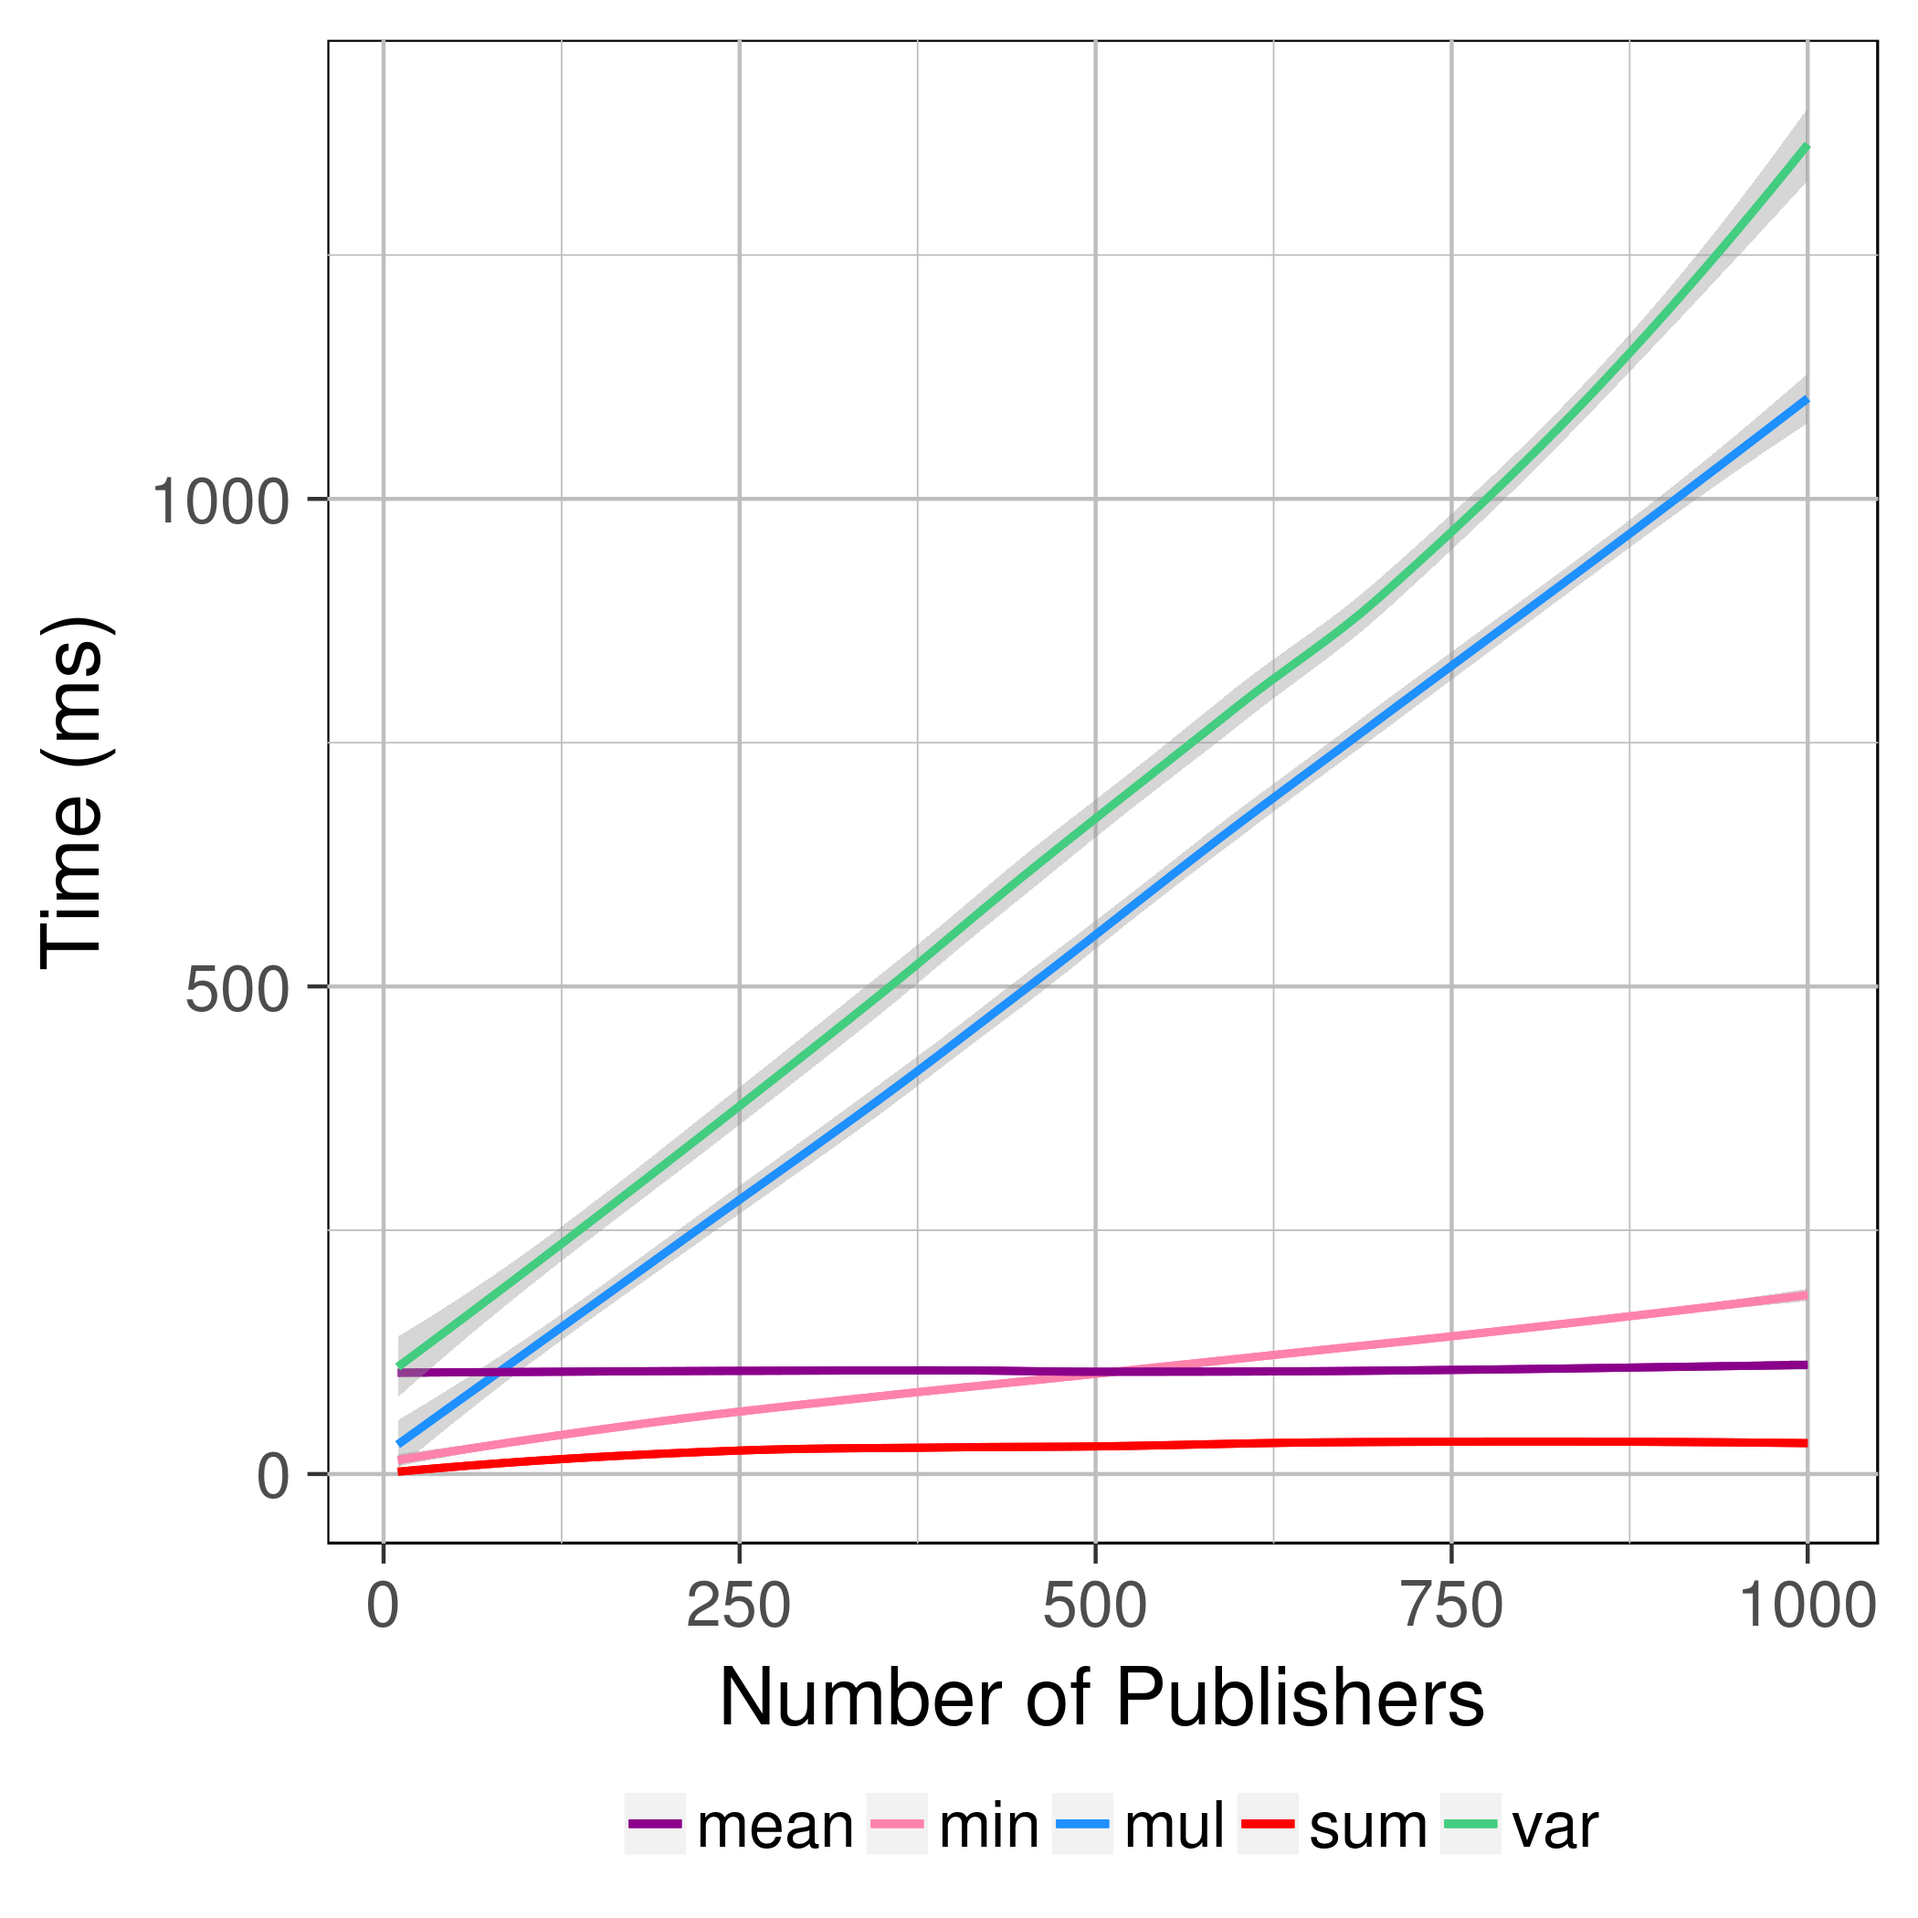
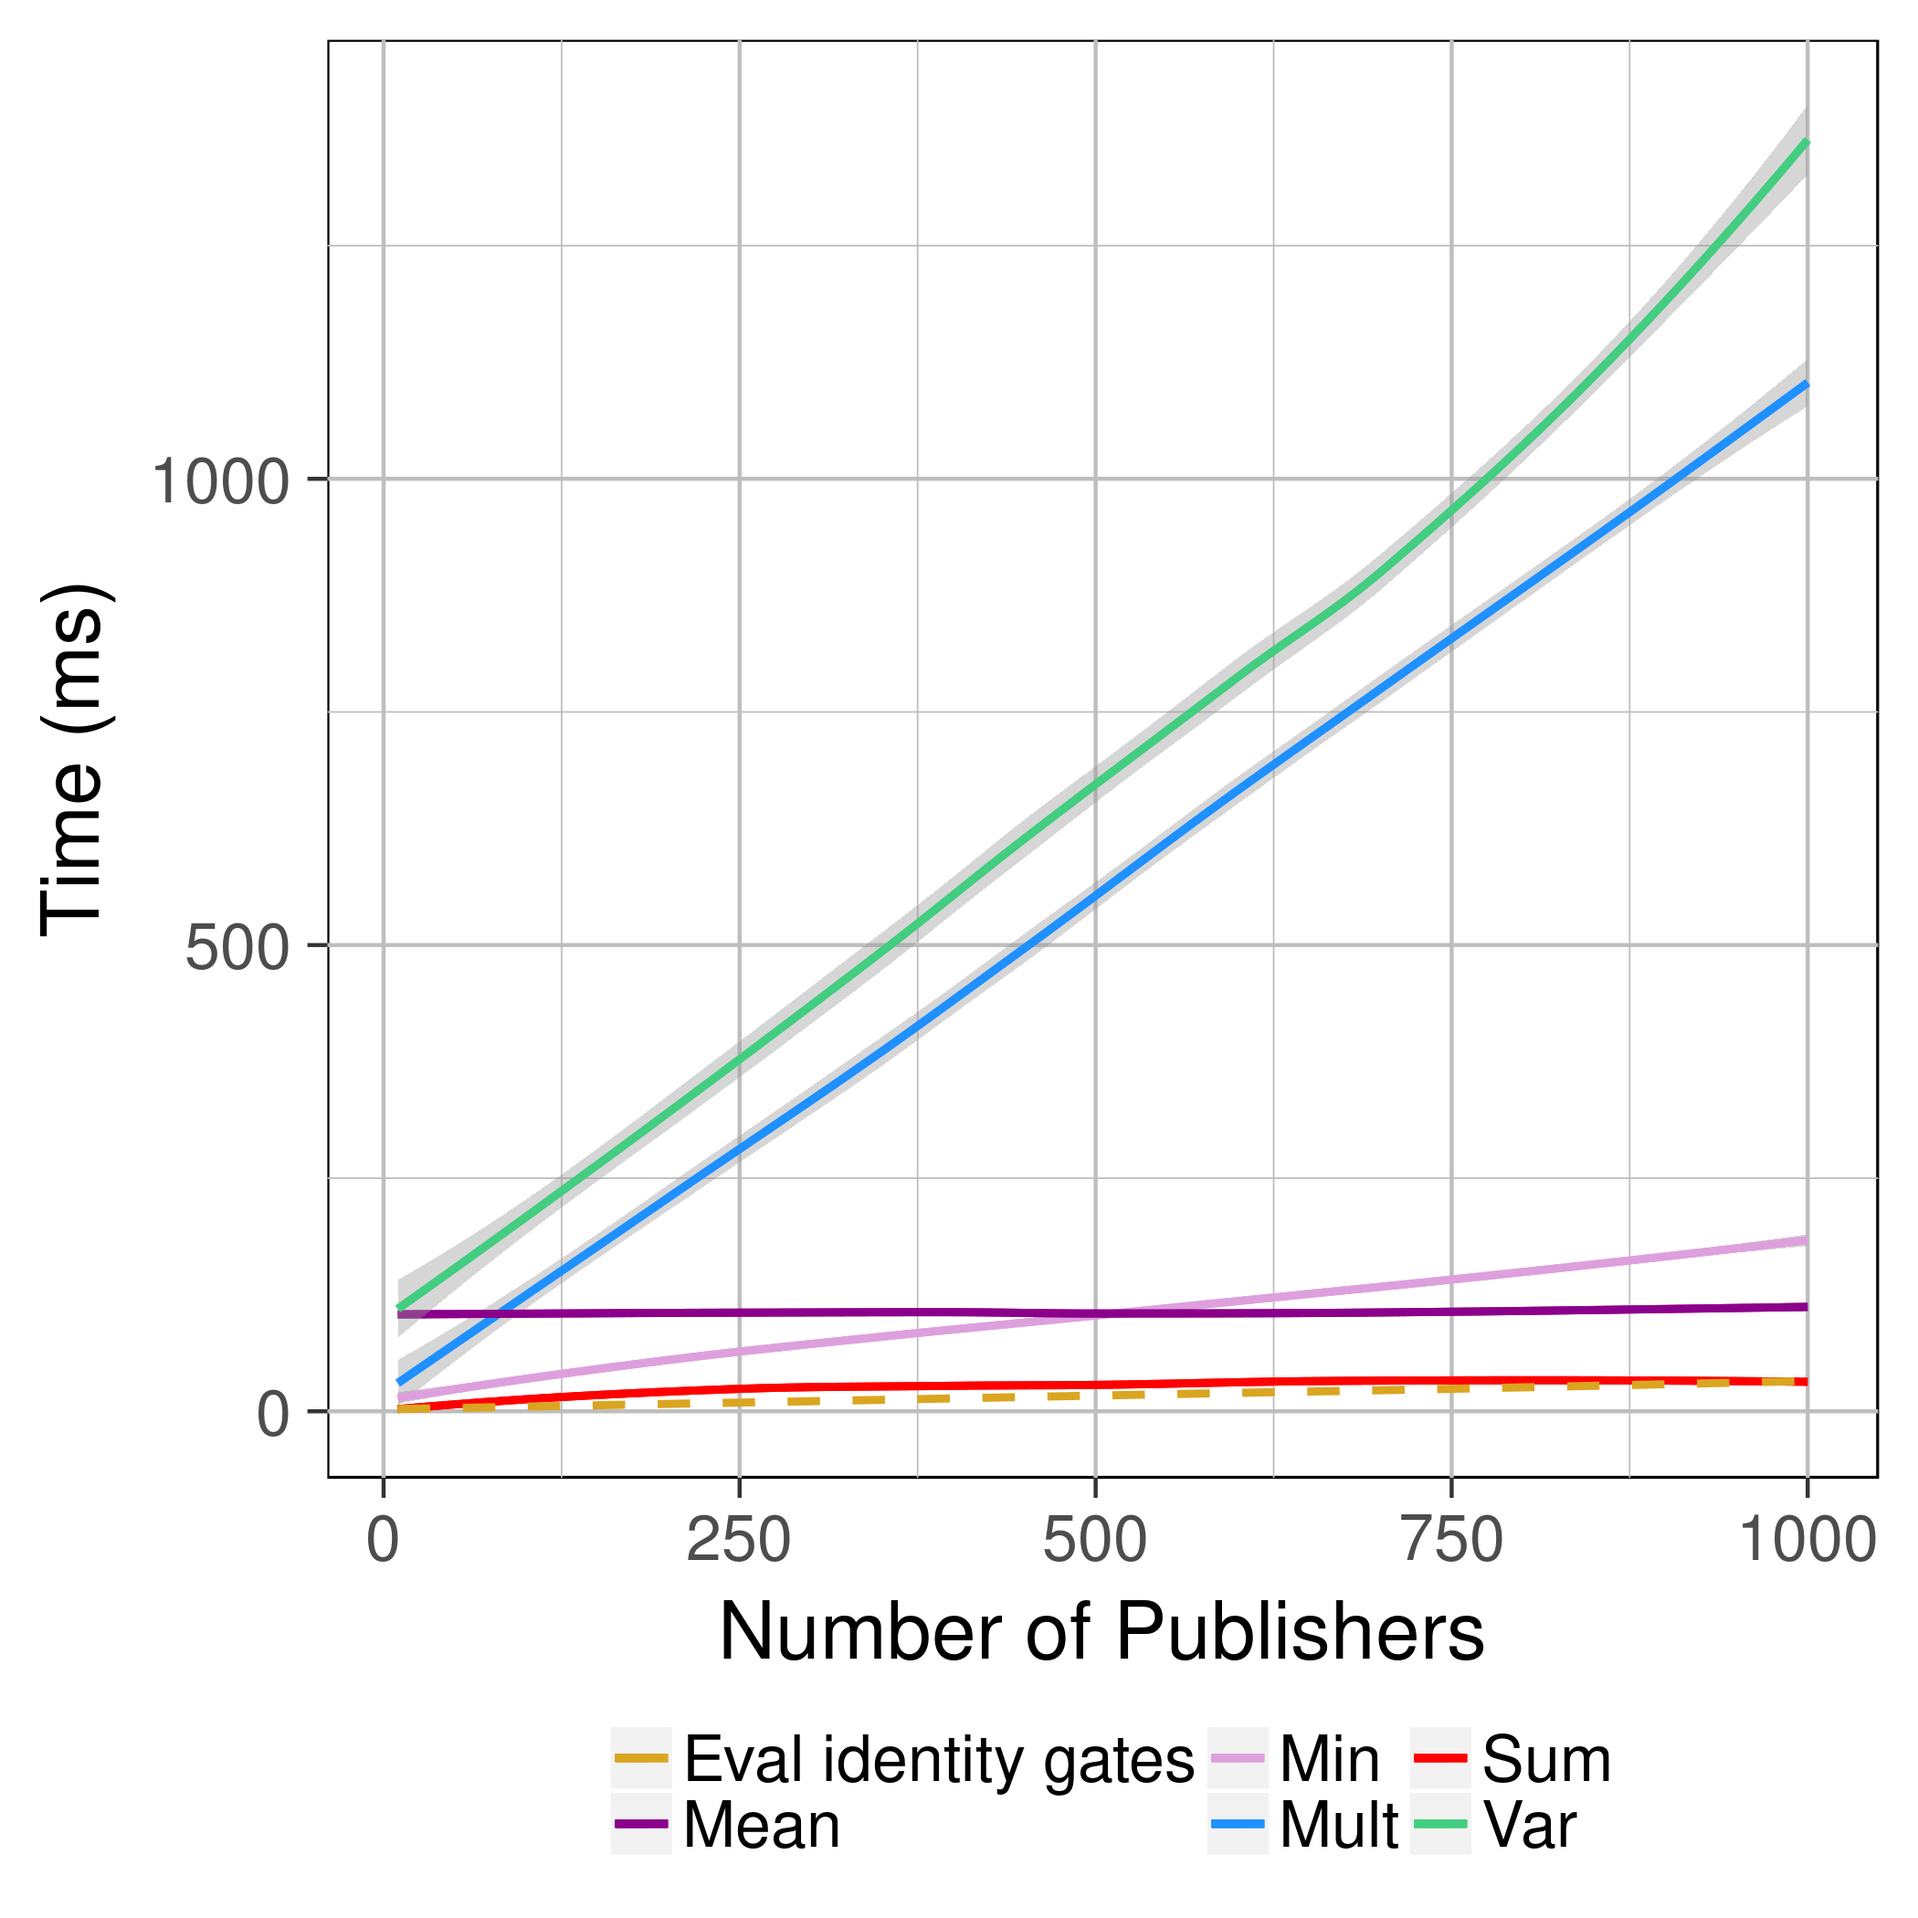
Update plots and evaluation

diff --git a/evaluation.tex b/evaluation.tex
@@ -56,7 +56,7 @@ of Publishers.
 
 \begin{figure}
   \includegraphics[width=0.45\textwidth]{plots/nonxor_gates_log.png}
-  \caption{Gates count per function used in the microbenchmarks.}
+  \caption{Non-XOR gates count per function used in the microbenchmarks.}
   \label{micro-nonxor}
 \end{figure}
 
@@ -95,20 +95,53 @@ implemented in go instead of C like the garbling and evaluation.
 
 \subsection{Applications}
 
-% TODO: 1. Environmental Berkeley indor sensing data, correlation
-\paragraph{Correlation of two data streams}
+% TODO: 1. Turonet, wireless propagation constant, linear regression
+\paragraph{Linear regression}
+
+% One dimensional linear regression
 
 % Questions: How many data points to use?
 
 % Formula:
+In this application we are interested in learning the linear model of two data
+streams generated by Publishers.  In particular, we perform a linear regression
+so that we can model one variable (comming from one stream) as a linear
+combination of another variable (comming from another stream): $y = ax + b$.
+To estimate the parameters of the one dimensional linear model we use the
+ordinary least squares technique, which gives us the following closed-form
+formula:
 
-% We compute the correlation squared to avoid computing the square root in the
-% function circuit, which would be an expensive operation.
+$\begin{pmatrix} b \\ c \end{pmatrix} =
+\left( \displaystyle\sum_{i=1}^n \begin{pmatrix} 1 \\ x_i \end{pmatrix}
+  \begin{pmatrix} 1 & x_i\end{pmatrix}\right)^{-1}
+\left( \displaystyle\sum_{i=1}^n y_i \begin{pmatrix} 1 \\ x_i \end{pmatrix}\right)$
 
-% TODO: 2. Road Volume sensor traffic, evaluation of the expected time to follow a path
-\paragraph{Estimation of time required to follow a path with traffic}
+Evaluating the formula requires an inversion of a $2 x 2$ matrix, which we perform
+by following the analytic solution.
 
-% http://rtmap.metro.net/ <- Not working (2017-05-15).
+% TODO: 2. Environmental Berkeley indor sensing data, correlation
+\paragraph{Correlation}
+
+% The dataset provides 2.3 million readings collected from sensors with the
+% following values: temperature (degree Celcius), humidity (0-100%), light
+% (Lux: 0-100000), identified by sensor ID.
+
+% Ideas: correlation temperature~humidity, temperature~light.
+% Questions: How many data points to use?
+% Graph: varying number of points, do sampling
+
+% We assume each sensor is an individual publisher.  The Broker accumulates
+% streams of values from each sensor.  When requested, the Broker samples pairs
+% of those streams at random to perform a correlation analysis between the two.
+
+% Formula:
+
+$r_{xy} = \frac{\displaystyle\sum_{i=1}^n (x_i - \bar{x}) (y_i - \bar{y})}
+{\sqrt{\displaystyle\sum_{i=1}^n (x_i - \bar{x})^n (y_i - \bar{y})^n}}$
+
+To improve efficiency, we evaluate the squared correlation ($r_{xy}^2$) to avoid
+computing the square root in the function circuit, which would be an expensive
+operation.
 
 \begin{figure}
   \includegraphics[width=0.45\textwidth]{plots/stream.png}
@@ -134,10 +167,10 @@ implemented in go instead of C like the garbling and evaluation.
 % individual parking lots, only combined data (except for the lot with
 % more/less free spots)
 
-% Setting: We have 9 Publishers, one for each lot, which send data (current
-% number of free spots, current number of used spots) every 5 minutes.  The
-% Broker accumulates the data of a day and computes the statistics.  This
-% happens once per day.
+Setting: We have 9 Publishers, one for each lot, which send data (current
+number of free spots, current number of used spots) every 5 minutes.  The
+Broker accumulates the data of a day and computes the statistics.  This
+happens once per day.
 
 % Daily statistics (used spots): mean, max, min, var of the number of cars in all the lots combined.
 % Daily statistics (free spots): The marking lot which had more free spots, and the one
@@ -146,32 +179,53 @@ implemented in go instead of C like the garbling and evaluation.
 % Time garble and time eval includes the time spend encrypting and decrypting
 % the input values.
 
-% "mean time_garble = 199.7968218 time_send = 226.0614956 time_eval = 98.731150 size = 46867188"
-% "max  time_garble = 163.2894558 time_send = 172.3834538 time_eval = 84.937214 size = 33530724"
-% "min  time_garble = 164.4096572 time_send = 165.7728326 time_eval = 84.142138 size = 33530724"
-% "var  time_garble = 500.6605406 time_send = 1055.636931 time_eval = 236.08728 size = 232874164"
+\begin{tabular}{l*{3}{r}r}
+Statistic  & Garble & Send & Evaluate & Size \\
+\hline
+Mean       & 199.79 ms & 226.06  ms & 98.73  ms & 44.69 MB \\
+Max/Min    & 163.28 ms & 172.38  ms & 84.93  ms & 31.97 MB \\
+Variance   & 500.66 ms & 1055.63 ms & 236.08 ms & 222.08 MB \\
+\hline
+Most/Less free  & 121.27 ms & 85.04 ms & 67.55 ms & 16.65 MB \\
+\end{tabular}
 
-% "max_free time_garble = 121.2790726 time_send = 85.043922 time_eval = 67.5544586 size = 17469252"
-% "min_free time_garble = 120.9805436 time_send = 85.586087 time_eval = 67.8169886 size = 17469252"
+% "mean time_garble = 199.79 time_send = 226.06 time_eval = 98.73 size = 45768.73"
+% "max  time_garble = 163.28 time_send = 172.38 time_eval = 84.93 size = 32744.84"
+% "min  time_garble = 164.40 time_send = 165.77 time_eval = 84.14 size = 32744.84"
+% "var  time_garble = 500.66 time_send = 1055.63 time_eval = 236.08 size = 227416.17"
 
-% TODO: 4. Turonet, wireless propagation constant, linear regression
-\paragraph{One dimensional linear regression}
+% "max_free time_garble = 121.27 time_send = 85.04 time_eval = 67.55 size = 17059.81"
+% "min_free time_garble = 120.98 time_send = 85.58 time_eval = 67.81 size = 17059.81"
 
-% The dataset provides 2.3 million readings collected from sensors with the
-% following values: temperature (degree Celcius), humidity (0-100%), light
-% (Lux: 0-100000), identified by sensor ID.
+% size =  44.69
+% size =  31.97
+% size =  31.97
+% size = 222.08
+% size =  16.65
+% size =  16.65
 
-% Ideas: correlation temperature~humidity, temperature~light.
-% Questions: How many data points to use?
-% Graph: varying number of points, do sampling
 
-% Formula:
+% TODO: 4. Road Volume sensor traffic, evaluation of the expected time to follow a path
+\paragraph{Estimation of time required to follow a path with traffic}
+
+% http://rtmap.metro.net/ <- Not working (2017-05-15).
 
 % TODO: 5. Smart bill, monthly electricity bill with different cost per hour of the day / threshold.
 
 % ???
 
-% Plots
-
 % TODO: Discussion: bottlenecks.
-% Sending the garbled circuit.
+
+As expected, the time spent sending the garbled circuit from the Third Party to
+the Broker is the most expensive part of the protocol, and thus is the current
+bottleneck.  This means that the quality and bandwidth of the network
+connection between the Broker and the Third Party is of critical importance.
+
+The garbling and evaluation of the identity gates could be optimized by
+incorporating the operations in the C code of libgarble.  Even though the
+golang implementation of the AES encryption and decryption functions use the
+Intel AES-NI hardware instructions, conversions from byte vectors to AES blocks
+and vice versa slow down the operation.  On the other hand, libgarble works
+natively with 128 byte data types (the size of an AES block) by using the Intel
+SSE2 extensions, thus not requiring any conversion during
+encryption/decryption.

diff --git a/system.tex b/system.tex
@@ -151,8 +151,8 @@ of a compiled language with the benefits of memory safety (which is very
 welcomed when dealing with dynamic data structures).
 
 The communication between the Broker and Third Party (to request the garbling
-of a circuit for Publishers inputs at some particular rounds) happens over RPC
-synchronously.
+of a circuit for Publishers inputs at some particular rounds) happens over a
+TCP RPC synchronously.
 
 Implementation wise, the Broker requires a regular \MQTT{} Broker server
 {reference: https://github.com/jeffallen/mqtt} with the minor modification that
